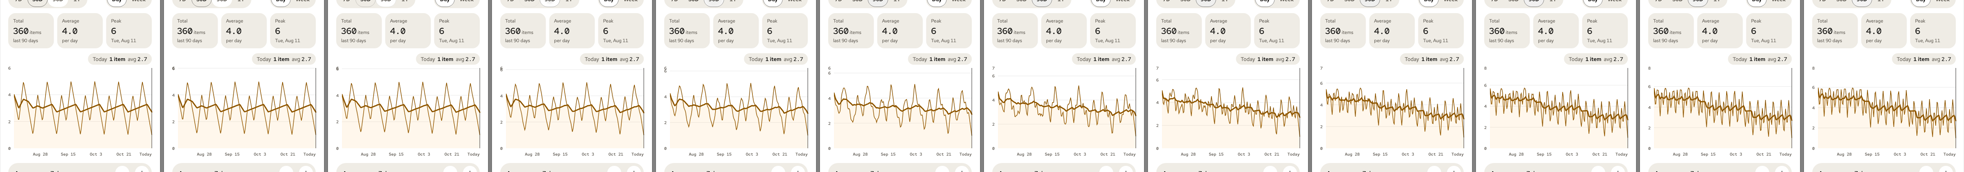
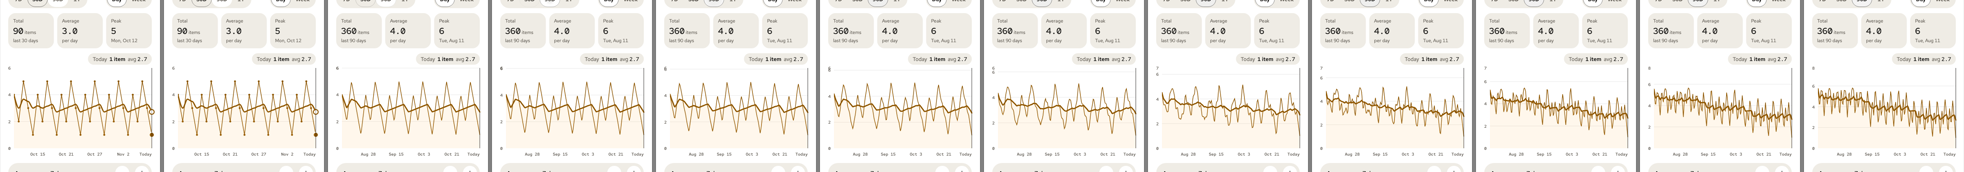
Morph renders against a query that answers late; changelog says what changes

diff --git a/CHANGELOG.md b/CHANGELOG.md
@@ -20,8 +20,8 @@ pull request titles (`gh pr list --state merged`).
   fade out before the new day's fade in).
 - The offline and "not saved" notices are rounded pills that drop in from the top on a spring and lift away when
   they clear, instead of bars that appear and vanish at once. With Reduce Motion on they fade.
-- In Trends, switching between 7 days, 30 days, 90 days and a year morphs the chart's line from one range into the
-  other instead of scrambling it.
+- In Trends, switching between 7 days, 30 days, 90 days and a year keeps the chart up while the new range loads, then
+  morphs its line into the new range, instead of putting a spinner in its place.
 
 ### Fixed
 
